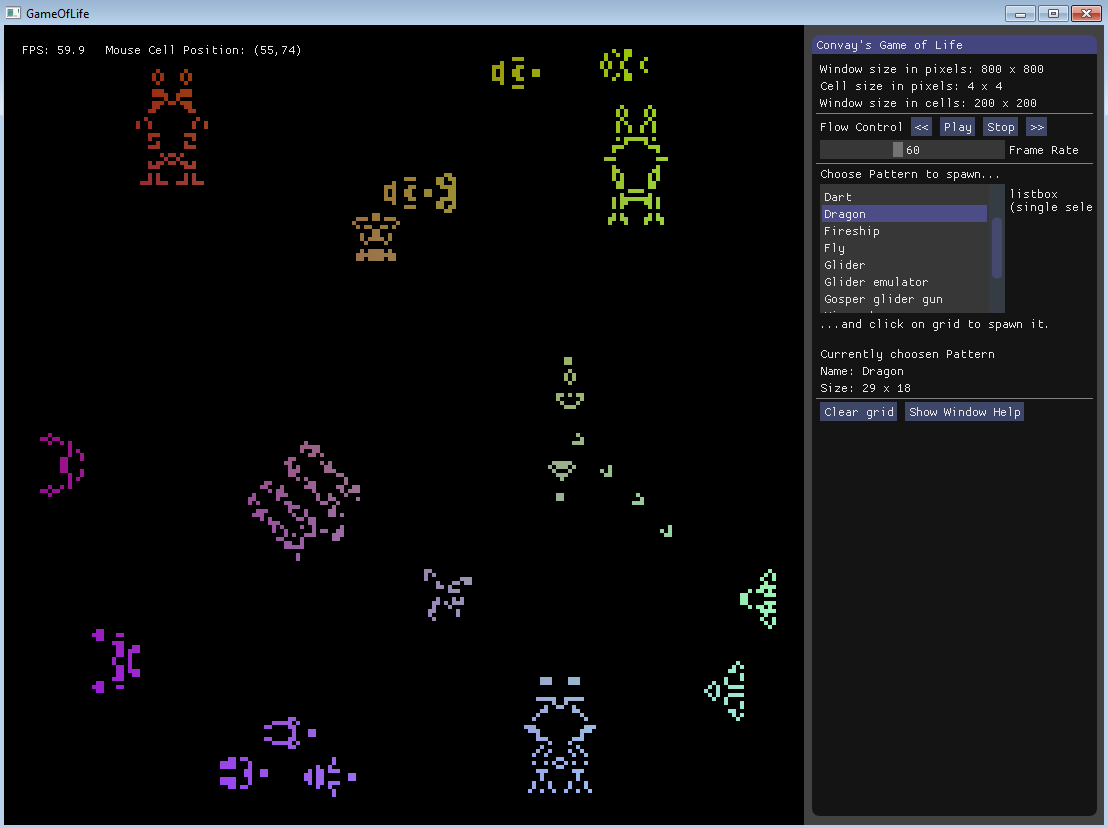
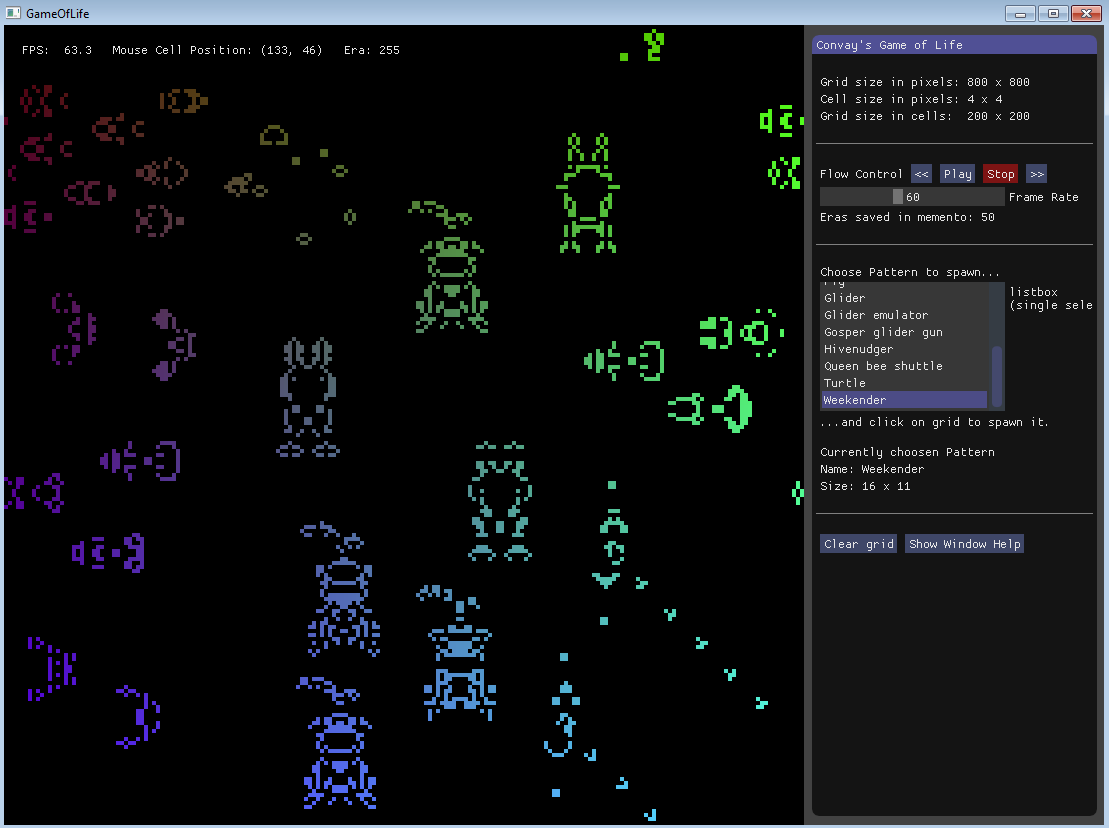
Add ability to go back to previous eras using idea of Memento Design Pattern.

diff --git a/GameOfLife/src/windowView.cpp b/GameOfLife/src/windowView.cpp
@@ -80,34 +80,51 @@ void GOL::windowView::updateMenu()
 	ImGui::Begin("Convay's Game of Life", NULL, ImGuiWindowFlags_NoMove | ImGuiWindowFlags_NoCollapse | ImGuiWindowFlags_NoResize);
 
 	// WINDOW DESCRIPTION
-	ImGui::Text("Window size in pixels: %.0f x %.0f", pixelWidth, pixelHeight);
+	ImGui::Text("\nGrid size in pixels: %.0f x %.0f", pixelWidth, pixelHeight);
 	ImGui::Text("Cell size in pixels: %.0f x %.0f", cellSize, cellSize);
-	ImGui::Text("Window size in cells: %.0f x %.0f", pixelWidth / cellSize, pixelHeight / cellSize);
+	ImGui::Text("Grid size in cells:  %.0f x %.0f", pixelWidth / cellSize, pixelHeight / cellSize);
 
 	// FLOW CONTROL
-	ImGui::Separator();
+	ImGui::Text("\n"); ImGui::Separator(); ImGui::Text("\n");
+
 	ImGui::AlignTextToFramePadding();
 	ImGui::Text("Flow Control"); ImGui::SameLine();
 	if (ImGui::Button("<<")) {
-		//
+		returnToMemento();
 	};
+
 	ImGui::SameLine();
+
+	if(!paused) ImGui::PushStyleColor(ImGuiCol_Button, (ImVec4)ImColor(11, 151, 9, 190));
+	else ImGui::PushStyleColor(ImGuiCol_Button, (ImVec4)ImColor(89, 102, 156, 158));
 	if (ImGui::Button("Play")) {
+		
 		if (paused) paused = false;
+		
 	};
+	ImGui::PopStyleColor();
+
 	ImGui::SameLine();
+	
+	if (paused) ImGui::PushStyleColor(ImGuiCol_Button, (ImVec4)ImColor(161, 20, 20, 190));
+	else ImGui::PushStyleColor(ImGuiCol_Button, (ImVec4)ImColor(89, 102, 156, 158));
 	if (ImGui::Button("Stop")) {
 		
 		if (!paused) paused = true;
 	};
+	ImGui::PopStyleColor();
+
 	ImGui::SameLine();
+	
 	if (ImGui::Button(">>")) {
 		grid->calculateNextStep();
 	};
 	ImGui::SliderInt("Frame Rate", &frameRate, 1, 144);
+	ImGui::Text("Eras saved in memento: %i", grid->cellGrid[0][0].memento.size());
 	
 	//SPAWNING PATTERNS
-	ImGui::Separator();
+	ImGui::Text("\n"); ImGui::Separator(); ImGui::Text("\n");
+
 	ImGui::Text("Choose Pattern to spawn...");
 
 	std::vector<std::string> patternsNames;
@@ -124,26 +141,23 @@ void GOL::windowView::updateMenu()
 	ImGui::Text("Name: %s", choosenPattern.name.c_str());
 	ImGui::Text("Size: %i x %i", choosenPattern.width, choosenPattern.height);
 
-
-	
-
 	ImGuiIO& io = ImGui::GetIO();
-	//for (int i = 0; i < IM_ARRAYSIZE(io.MouseDown); i++) {
 	if (ImGui::IsMouseClicked(0)) {
 		if (ImGui::GetIO().MousePos.x / cellSize >= 0 &&
 			ImGui::GetIO().MousePos.x / cellSize <= pixelWidth / cellSize &&
 			ImGui::GetIO().MousePos.y / cellSize >= 0 &&
 			ImGui::GetIO().MousePos.y / cellSize <= pixelHeight / cellSize)
 		{
+			if (grid->eraCounter == 0 && paused == true) paused = false;
 
 			grid->spawnPattern(patternsNames[listbox_item_current], 
 				ImGui::GetIO().MousePos.x / cellSize, ImGui::GetIO().MousePos.y / cellSize);
 			if(paused) grid->calculateNextStep();
 		}
 	}
-	//}
 
-	ImGui::Separator();
+	ImGui::Text("\n"); ImGui::Separator(); ImGui::Text("\n");
+	
 	if (ImGui::Button("Clear grid")) {
 		for (auto x = 0; x < grid->cellGrid.size(); x++) {
 			for (auto y = 0; y < grid->cellGrid[0].size(); y++) {
@@ -151,7 +165,9 @@ void GOL::windowView::updateMenu()
 				grid->cellGrid[x][y].previousState = false;
 			}
 		}
-		if (paused) grid->calculateNextStep();
+		grid->calculateNextStep();
+		paused = true;
+		grid->eraCounter = 0;
 	}; 
 	ImGui::SameLine();
 	if (ImGui::Button("Show Window Help")) {
@@ -159,8 +175,6 @@ void GOL::windowView::updateMenu()
 		else showHelpMenu = true;
 	}; 
 	
-
-
 	ImGui::End();
 
 	this->window->setFramerateLimit(frameRate);
@@ -183,10 +197,11 @@ void GOL::windowView::updateFPSWindow()
 
 	if (ImGui::Begin("FpsWindow", &showFSPMenu, ImGuiWindowFlags_NoTitleBar | ImGuiWindowFlags_NoResize | ImGuiWindowFlags_AlwaysAutoResize | ImGuiWindowFlags_NoMove | ImGuiWindowFlags_NoSavedSettings))
 	{
-		ImGui::Text("FPS: %.1f   Mouse Cell Position: (%.0f,%.0f)", 
+		ImGui::Text("FPS: %5.1f   Mouse Cell Position: (%3.0f,%3.0f)   Era: %i",
 			ImGui::GetIO().Framerate,
 			ImGui::GetIO().MousePos.x / cellSize,
-			ImGui::GetIO().MousePos.y / cellSize);
+			ImGui::GetIO().MousePos.y / cellSize,
+			grid->eraCounter);
 		//ImGui::Separator();
 
 		if (ImGui::BeginPopupContextWindow())
@@ -200,4 +215,19 @@ void GOL::windowView::updateFPSWindow()
 		ImGui::End();
 	}
 	ImGui::PopStyleColor();
+}
+
+void GOL::windowView::returnToMemento()
+{
+	if (grid->cellGrid[0][0].memento.size() > 0) {
+		if (paused == false) paused = true;
+
+		for (auto x = 0; x < grid->cellGrid.size(); x++) {
+			for (auto y = 0; y < grid->cellGrid[0].size(); y++) {
+				grid->cellGrid[x][y].setNextState(grid->cellGrid[x][y].getMemento());
+				grid->cellGrid[x][y].updateState();
+			}
+		}
+		--grid->eraCounter;
+	}
 }

diff --git a/GameOfLife/include/Cell.h b/GameOfLife/include/Cell.h
@@ -1,6 +1,7 @@
 #pragma once
 #include <SFML/Graphics.hpp>
 #include <vector>
+#include <deque>
 
 class Cell : public sf::RectangleShape
 {
@@ -10,6 +11,8 @@ public:
 	bool nextState = false;
 	enum direction { NW = 0, N, NE, E, SE, S, SW, W };
 	std::vector<Cell*> neighbors;
+	std::deque<bool> memento;
+	const static int mementoMaxSize = 50;
 
 public:
 	Cell(sf::Vector2f, sf::Vector2f, int, int, sf::Color);
@@ -17,5 +20,8 @@ public:
 	
 	void setNextState(bool);
 	void updateState();
+
+	void addMemento();
+	bool getMemento();
 };
 

diff --git a/GameOfLife/src/Grid.cpp b/GameOfLife/src/Grid.cpp
@@ -72,6 +72,8 @@ Grid::Grid()
 
 	initializeCells();
 	readPatternsFromRLEFiles("PatternsRLE");
+
+	eraCounter = 0;
 }
 
 
@@ -102,12 +104,17 @@ void Grid::calculateNextStep()
 
 	for (auto x = 0; x < gridWidth; x++) {
 		for (auto y = 0; y < gridHeight; y++) {
+
+			cellGrid[x][y].addMemento();
+
 			if (cellGrid[x][y].previousState != cellGrid[x][y].nextState) {
 
 				cellGrid[x][y].updateState();
 			}
 		}
 	}
+
+	++eraCounter;
 }
 
 void Grid::spawnPattern(std::string patternName, int x, int y)

diff --git a/GameOfLife/src/Cell.cpp b/GameOfLife/src/Cell.cpp
@@ -25,3 +25,19 @@ void Cell::updateState()
 	previousState = nextState;
 }
 
+void Cell::addMemento()
+{
+	this->memento.push_front(this->previousState);
+	if (this->memento.size() > mementoMaxSize) 
+		this->memento.pop_back();
+
+	//std::cout << memento.size() << std::endl;
+}
+
+bool Cell::getMemento()
+{
+	bool state = this->memento.front();
+	this->memento.pop_front();
+	return state;
+}
+

diff --git a/GameOfLife/include/windowView.h b/GameOfLife/include/windowView.h
@@ -21,7 +21,7 @@ namespace GOL {
 		bool showHelpMenu{ false };
 		bool showFSPMenu{ true };
 
-		bool paused = false;
+		bool paused = true;
 
 		void updateMenu();
 		void updateFPSWindow();
@@ -35,6 +35,7 @@ namespace GOL {
 		~windowView();
 
 		void updateWindowState();
+		void returnToMemento();
 	};
 
 }

diff --git a/GameOfLife/include/Grid.h b/GameOfLife/include/Grid.h
@@ -24,6 +24,8 @@ public:
 	std::vector<std::vector<Cell>> cellGrid;
 	std::map<std::string, Pattern> patterns;
 
+	int eraCounter;
+
 	Grid();
 	~Grid();
 
